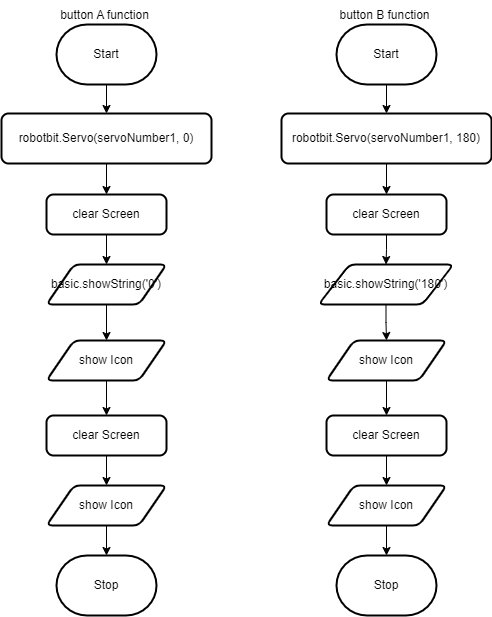
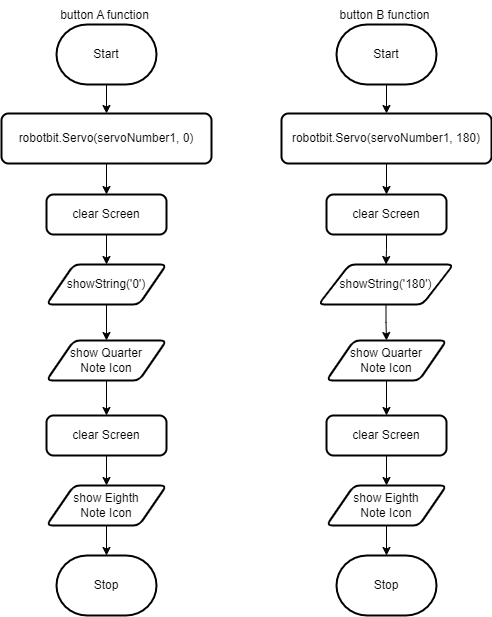
py + flow

diff --git a/MicroPython/main.py b/MicroPython/main.py
@@ -6,9 +6,9 @@ This module is a Micro:bit MicroPython program moves the servo back and forth.
 
 from microbit import *
 import math
-from math import *
 
 
+# create Servo
 class Servo:
     def __init__(self, pin, freq=50, min_us=600, max_us=2400, angle=180):
         self.min_us = min_us
@@ -37,29 +37,38 @@ class Servo:
         self.write_us(us)
 
 
-# set up
+# setup
 display.clear()
 display.show(Image.HOUSE)
+sleep(1000)
 
-Servo(pin0).write_angle(0)
+
 # loop
 while True:
+    # button a is pressed
     if button_a.is_pressed():
-        Servo(pin0).write_angle(0)
-        display.clear()
+        # make the servo at 0 degrees
+        for angle in range(0, 40, 2):
+            Servo(pin0).write_angle(0)
+
+        # show 0 degrees on screen
         display.scroll("0")
         display.show(Image.SMILE)
 
         # when motor finishes turn
         display.clear()
-        display.show(Image.SMILE)
+        display.show(Image.FABULOUS)
 
+    # button b is pressed
     if button_b.is_pressed():
-        Servo(pin0).write_angle(0)
-        display.clear()
+        # make the servo at 180 degrees
+        for angle in range(0, 40, 2):
+            Servo(pin0).write_angle(0)
+
+        # show 180 degrees on screen
         display.scroll("180")
         display.show(Image.SMILE)
 
         # when motor finishes turn
         display.clear()
-        display.show(Image.SMILE)
+        display.show(Image.FABULOUS)
